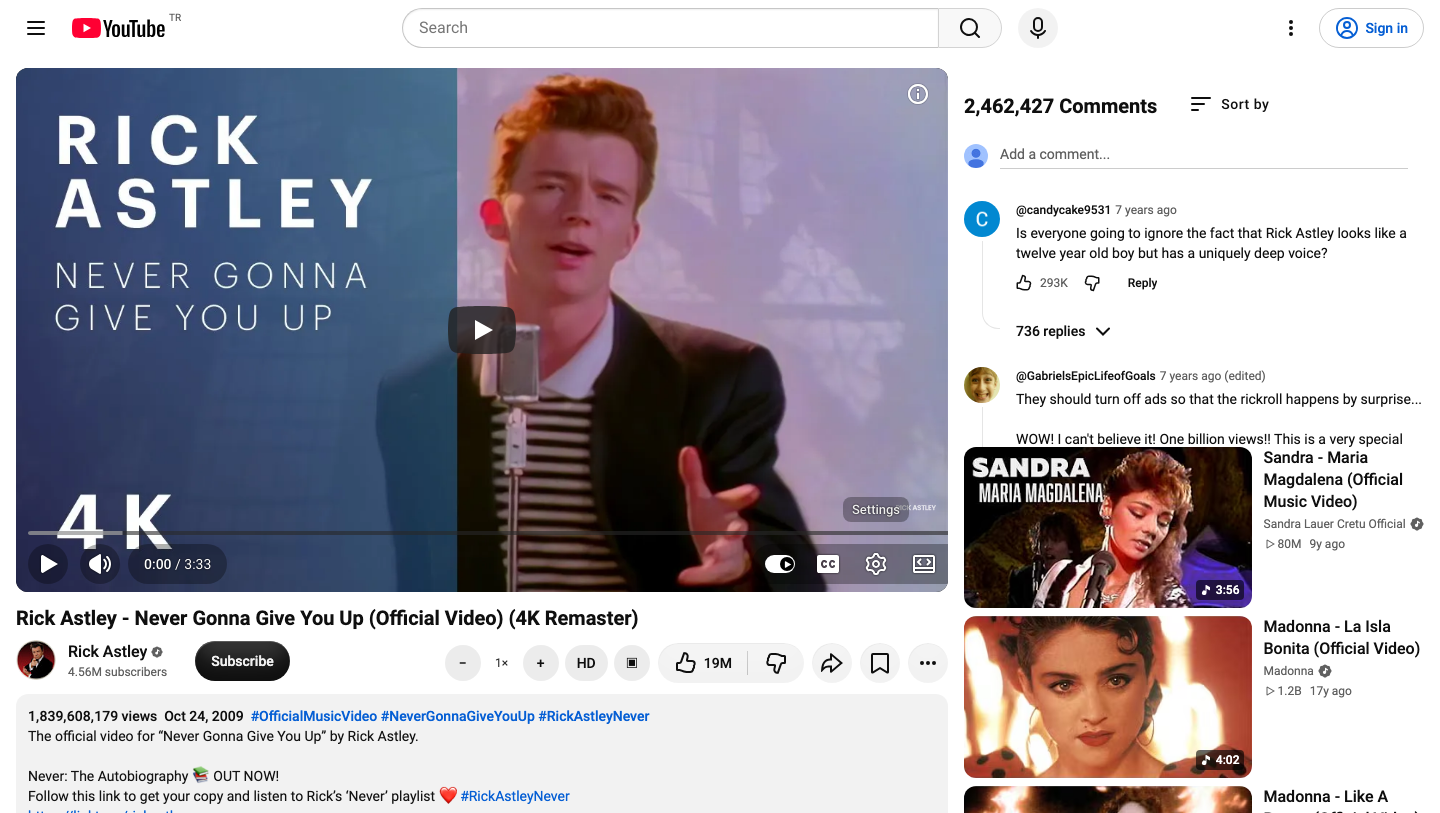
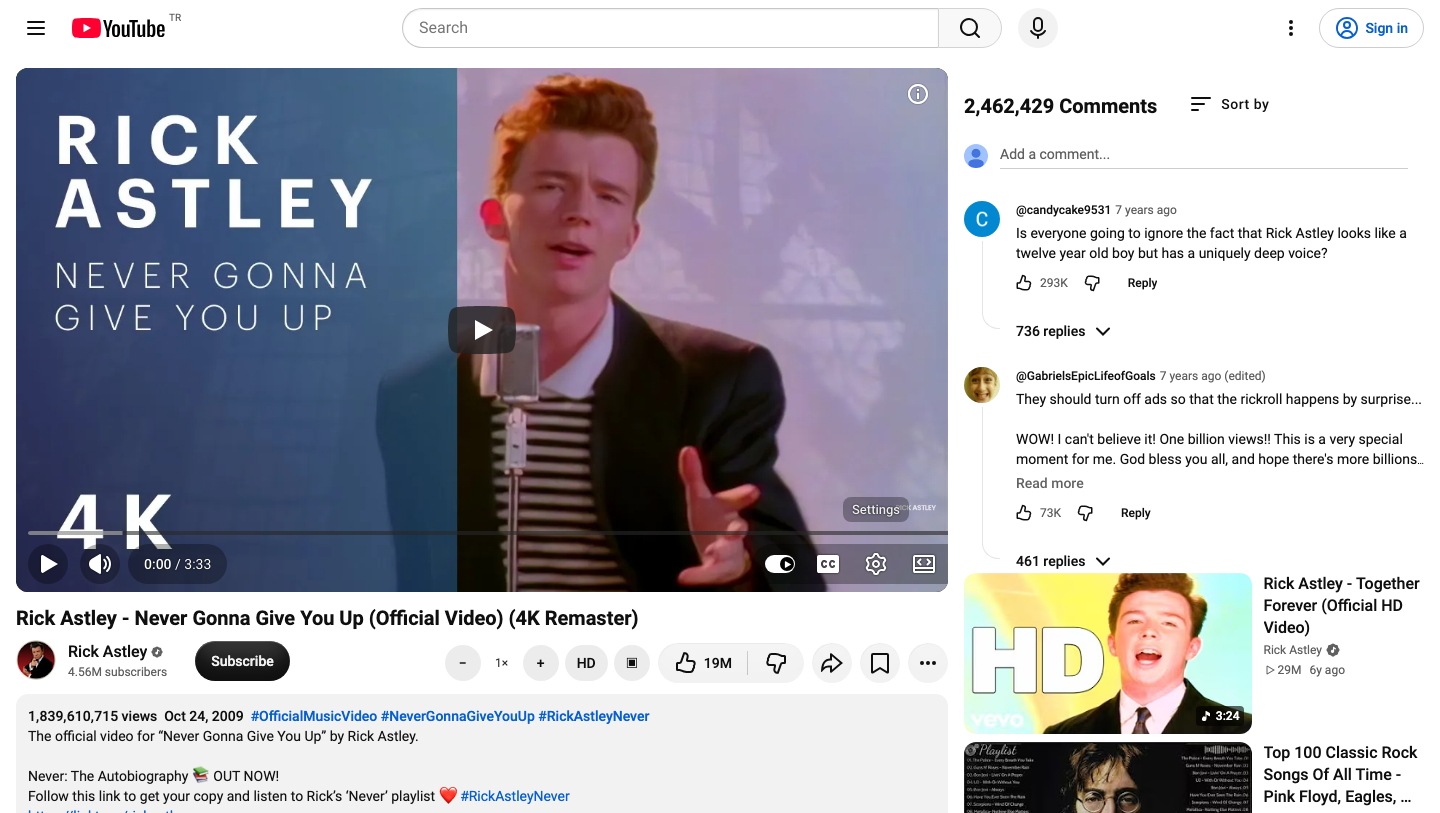
Split panes 2:1, 0.1 speed steps, copy screenshot to clipboard

Changed region(s): [[0.6562, 0.5228, 1.0, 1.0], [0.0625, 0.861, 0.0938, 0.8918]]

diff --git a/youtube-comments-right.user.js b/youtube-comments-right.user.js
@@ -1,7 +1,7 @@
 // ==UserScript==
 // @name         YouTube: Comments on the Right
 // @namespace    https://github.com/sslinkup/youtube-comments-on-right
-// @version      4.3.0
+// @version      4.4.0
 // @description  Moves comments next to the video, locks the page, and gives the right column its own scrollbar.
 // @author       sslinkup
 // @license      MIT
@@ -32,9 +32,13 @@
     playlistOnTop: true,          // move the playlist above the comments
     playlistItemsHeight: 160,     // height of the playlist's internal scroller in px
     pinnedComments: true,         // pin comments at top, scroll recommendations below
-    commentsFlex: 1,              // relative height of the comments pane
+    commentsFlex: 2,              // relative height of the comments pane
     recsFlex: 1,                  // relative height of the recommendations pane
     addPlayerButtons: true,       // add speed / quality / screenshot buttons near Like
+    speedStep: 0.1,               // playback speed increment per click
+    speedMin: 0.1,                // minimum playback speed
+    speedMax: 2,                  // maximum playback speed
+    screenshotToClipboard: true,  // copy screenshot to clipboard instead of downloading
   };
 
   const COMMENT_SELECTORS = ['#comments', 'ytd-comments', 'ytd-comments-renderer'];
@@ -233,13 +237,21 @@
     return el && typeof el.getPlayer === 'function' ? el.getPlayer() : null;
   }
 
+  function getRates() {
+    const rates = [];
+    for (let r = CONFIG.speedMin; r <= CONFIG.speedMax + 1e-9; r += CONFIG.speedStep) {
+      rates.push(Math.round(r * 100) / 100);
+    }
+    return rates;
+  }
+
   function updateSpeedUI() {
     const player = getPlayer();
     const label = document.getElementById('cr-speed-label');
     const down = document.getElementById('cr-speed-down');
     const up = document.getElementById('cr-speed-up');
     if (!player || !label) return;
-    const rates = (player.getAvailablePlaybackRates() || [1]).slice().sort((a, b) => a - b);
+    const rates = getRates();
     const rate = player.getPlaybackRate();
     const index = rates.indexOf(rate);
     label.textContent = rate + '×';
@@ -250,7 +262,7 @@
   function stepSpeed(direction) {
     const player = getPlayer();
     if (!player) return;
-    const rates = (player.getAvailablePlaybackRates() || [1]).slice().sort((a, b) => a - b);
+    const rates = getRates();
     const index = rates.indexOf(player.getPlaybackRate());
     const next = rates[Math.min(Math.max(index + direction, 0), rates.length - 1)];
     player.setPlaybackRate(next);
@@ -270,7 +282,7 @@
     }, 80);
   }
 
-  function captureFrame() {
+  async function captureFrame() {
     const video = document.querySelector('video');
     if (!video || !video.videoWidth) return;
     try {
@@ -278,12 +290,26 @@
       canvas.width = video.videoWidth;
       canvas.height = video.videoHeight;
       canvas.getContext('2d').drawImage(video, 0, 0);
+      const blob = await new Promise((resolve) => canvas.toBlob(resolve, 'image/png'));
+      if (!blob) return;
+
+      if (CONFIG.screenshotToClipboard && navigator.clipboard && window.ClipboardItem) {
+        try {
+          await navigator.clipboard.write([new ClipboardItem({ 'image/png': blob })]);
+          console.log('[comments-right] screenshot copied to clipboard');
+          return;
+        } catch (e) {
+          console.warn('[comments-right] clipboard failed, downloading instead:', e);
+        }
+      }
+
       const link = document.createElement('a');
-      link.href = canvas.toDataURL('image/png');
+      link.href = URL.createObjectURL(blob);
       link.download = 'youtube-frame-' + Date.now() + '.png';
       document.body.appendChild(link);
       link.click();
       link.remove();
+      setTimeout(() => URL.revokeObjectURL(link.href), 1000);
     } catch (e) {
       console.warn('[comments-right] screenshot failed:', e);
     }
@@ -317,7 +343,7 @@
     group.appendChild(label);
     group.appendChild(makeControl('cr-speed-up', '+', 'Increase playback speed', () => stepSpeed(1)));
     group.appendChild(makeControl('cr-quality', 'HD', 'Quality settings', openQualityMenu));
-    group.appendChild(makeControl('cr-screenshot', '▣', 'Save current frame as PNG', captureFrame));
+    group.appendChild(makeControl('cr-screenshot', '▣', CONFIG.screenshotToClipboard ? 'Copy current frame to clipboard' : 'Save current frame as PNG', captureFrame));
     container.insertBefore(group, container.firstChild);
     updateSpeedUI();
   }

diff --git a/README.md b/README.md
@@ -8,9 +8,10 @@ A userscript that moves YouTube's comments section into the right-hand column ne
 
 - Moves `#comments` into the secondary (right) column.
 - Locks the watch page to the viewport so it can't scroll.
-- Splits the right column into a **pinned comments pane** and a **separately scrolling recommendations pane** below it.
+- Splits the right column into a **pinned comments pane (2/3)** and a **separately scrolling recommendations pane (1/3)** below it.
 - Caps the video description to a scrollable box (auto-expands it first).
 - Adds **speed down / speed up / quality / screenshot** buttons directly before the Like button.
+- Speed changes in **0.1× steps**; the screenshot button **copies the current frame to the clipboard**.
 - Moves the playlist panel above the comments and caps its item list to a scrollable height.
 - Keeps YouTube's lazy loading of additional comments working.
 - Survives YouTube's in-page (SPA) navigation and **restores normal page scrolling** when you leave a video for Home, Channel, or Library.
@@ -48,9 +49,12 @@ Edit the `CONFIG` object near the top of the script:
 | `playlistOnTop` | `true` | Move the playlist panel above the comments. |
 | `playlistItemsHeight` | `160` | Height in pixels of the playlist's internal item scroller. |
 | `pinnedComments` | `true` | Pin comments at the top and scroll recommendations in a separate pane below. |
-| `commentsFlex` | `1` | Relative height share of the comments pane. |
-| `recsFlex` | `1` | Relative height share of the recommendations pane. |
+| `commentsFlex` | `2` | Relative height share of the comments pane (2 = two thirds). |
+| `recsFlex` | `1` | Relative height share of the recommendations pane (1 = one third). |
 | `addPlayerButtons` | `true` | Add speed down/up, quality, and screenshot buttons before Like. |
+| `speedStep` | `0.1` | Playback speed change per click. |
+| `speedMin` / `speedMax` | `0.1` / `2` | Playback speed range. |
+| `screenshotToClipboard` | `true` | Copy screenshot to clipboard; set `false` to download the PNG instead. |
 
 ## Troubleshooting
 
